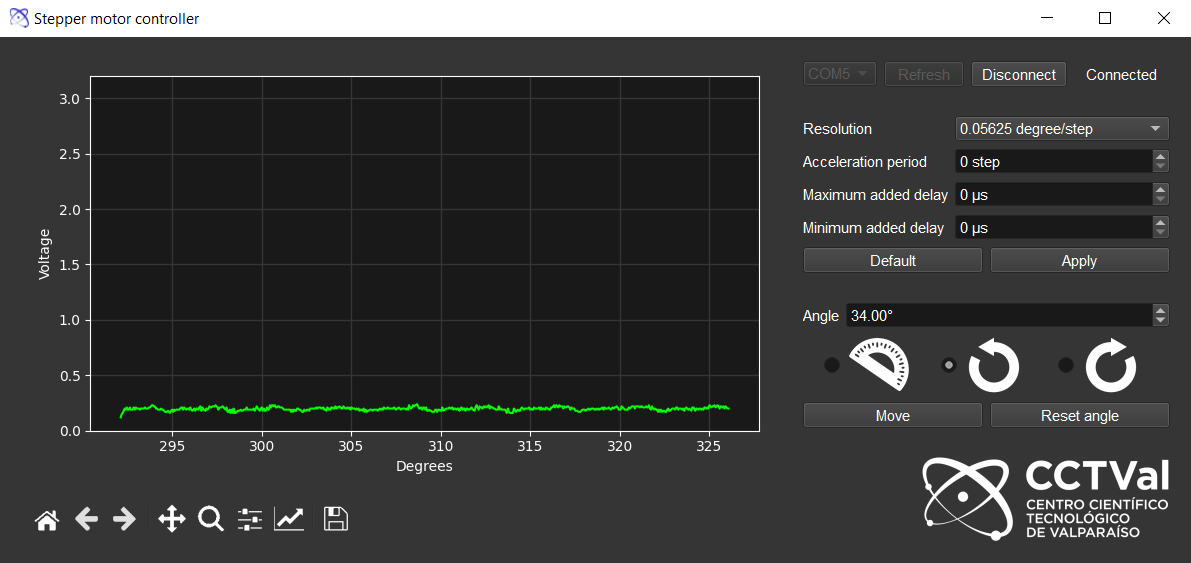
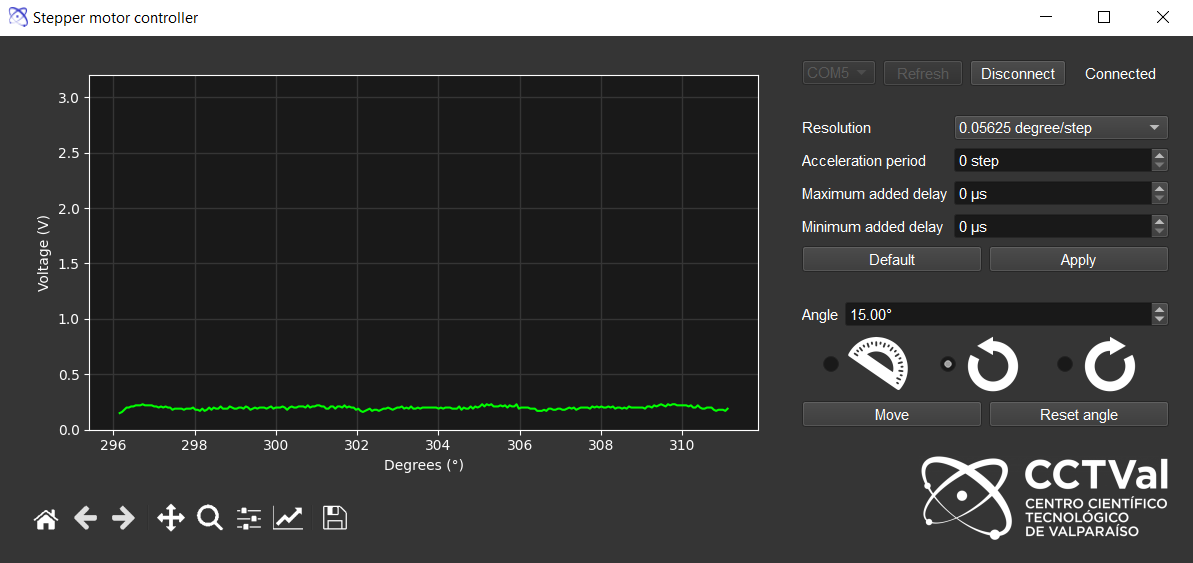
added units to plot

diff --git a/GUI/plotWidget.py b/GUI/plotWidget.py
@@ -51,7 +51,7 @@ class plotWidget(QWidget):
 
 		# self.canvas_wdg.axes.plot(data, color='lime', linewidth=2)
 
-		self.canvas_wdg.axes.set_ylabel('Voltage')
+		self.canvas_wdg.axes.set_ylabel('Voltage (V)')
 		self.canvas_wdg.axes.yaxis.label.set_color('#ffffff')
 		self.canvas_wdg.axes.xaxis.label.set_color('#ffffff')
 		self.canvas_wdg.axes.tick_params(axis='x', colors='#ffffff')
@@ -62,7 +62,7 @@ class plotWidget(QWidget):
 		self.canvas_wdg.axes.tick_params(axis='y', colors='#ffffff')
 		self.canvas_wdg.fig.set_facecolor('#353535')
 		self.canvas_wdg.axes.set_facecolor('#191919')
-		self.canvas_wdg.axes.set_xlabel('Degrees')
+		self.canvas_wdg.axes.set_xlabel('Degrees (\u00b0)')
 		self.canvas_wdg.axes.figure.gca().set_ylim(0, 3.2)
 		self.canvas_wdg.axes.grid(color = '#353535', linewidth = 1)
 		self.canvas_wdg.draw()
